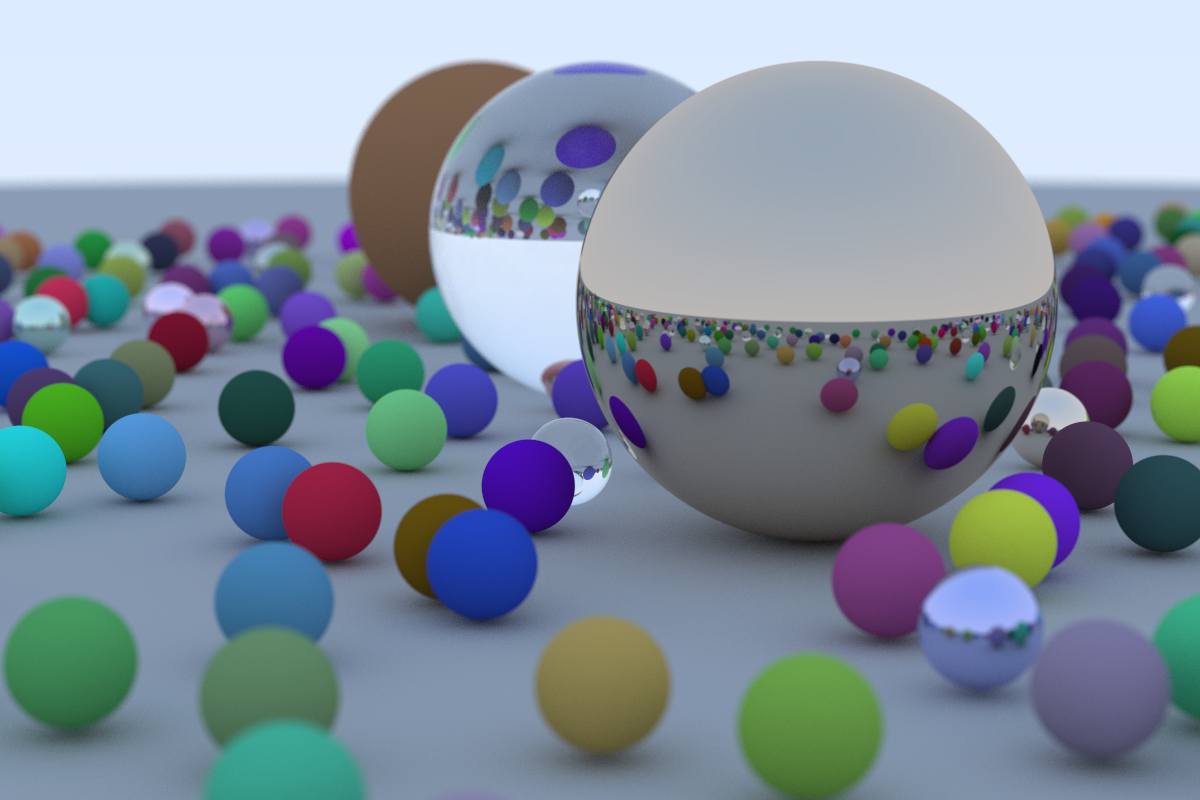
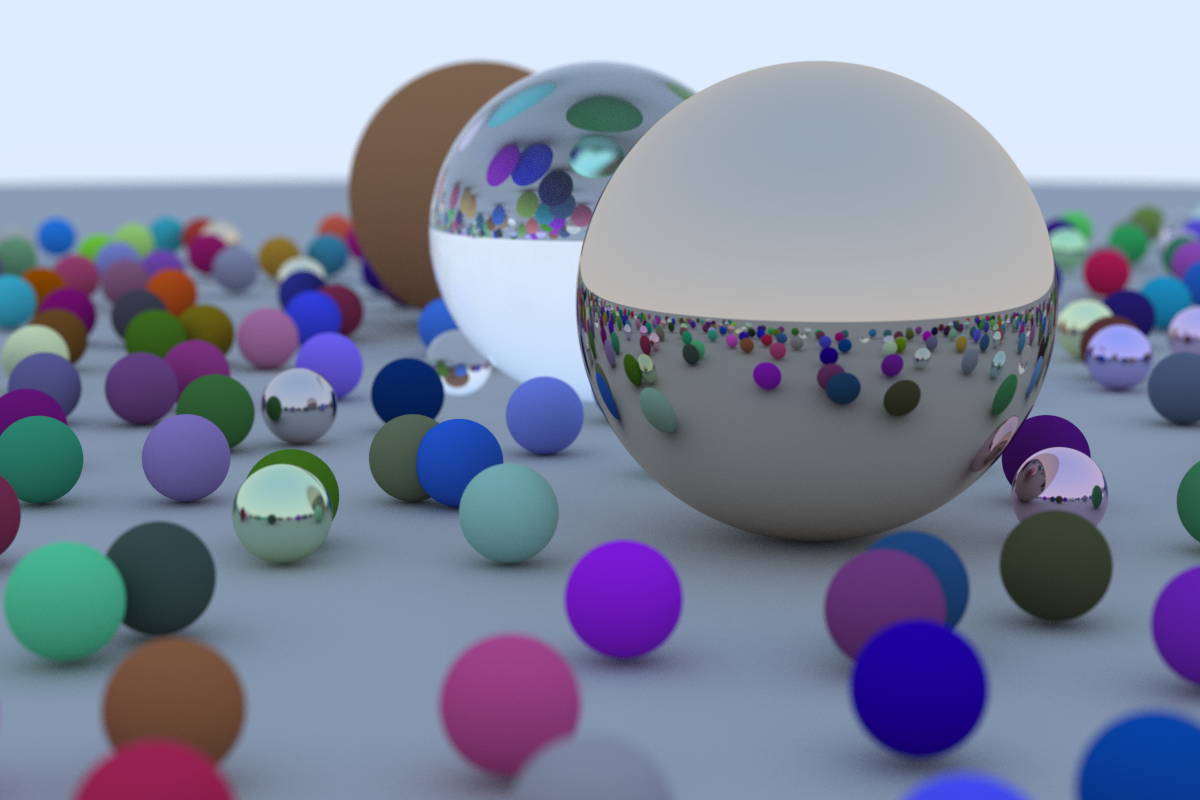
remove unsafe code, and Send, Sync bound

diff --git a/src/main.rs b/src/main.rs
@@ -1,4 +1,3 @@
-use lazy_static::lazy_static;
 use rand::prelude::*;
 use ray_tracing::{
     Camera, Color, Dielectritic, HitRecord, Hittable, HittableList, Lambertian, Material, Metal,
@@ -10,11 +9,6 @@ use std::{
     io::{BufWriter, Write},
     sync::Arc,
 };
-
-// WORLD is read-only
-lazy_static! {
-    static ref WORLD: HittableList = random_scene();
-}
 
 fn random_scene() -> HittableList {
     let mut world = HittableList::default();
@@ -119,6 +113,9 @@ fn main() {
     f.write_all(format!("P3\n{} {}\n255\n", image_width, image_height).as_bytes())
         .unwrap();
 
+    // World
+    let world = random_scene();
+
     // Render
     let image = (0..image_height)
         .into_par_iter()
@@ -133,7 +130,7 @@ fn main() {
                     let u = (i as f64 + rng.gen_range(0.0..1.0)) / (image_width - 1) as f64;
                     let v = (j as f64 + rng.gen_range(0.0..1.0)) / (image_height - 1) as f64;
                     let ray = camera.get_ray(&mut rng, u, v);
-                    pixel_color += *ray_color(&ray, &WORLD, max_depth);
+                    pixel_color += *ray_color(&ray, &world, max_depth);
                 }
                 line.push(Color::from(pixel_color));
             }

diff --git a/src/materials/list.rs b/src/materials/list.rs
@@ -5,10 +5,6 @@ use crate::{HitRecord, Hittable, Ray};
 #[derive(Default)]
 pub struct HittableList(Vec<Arc<dyn Hittable>>);
 
-// I'm sure that there is no possibility of undefined behavior (including data races)
-// when passing &HittableList between threads, so unsafely implement Sync for HittableList.
-unsafe impl Sync for HittableList {}
-
 impl HittableList {
     pub fn new(hittable: Arc<dyn Hittable>) -> Self {
         let mut list = HittableList::default();

diff --git a/src/materials/mod.rs b/src/materials/mod.rs
@@ -10,6 +10,6 @@ mod metal;
 
 use crate::{Color, HitRecord, Ray};
 
-pub trait Material {
+pub trait Material: Send + Sync {
     fn scatter(&self, r_in: &Ray, rec: &HitRecord) -> Option<(Color, Ray)>;
 }

diff --git a/src/objects/mod.rs b/src/objects/mod.rs
@@ -25,6 +25,6 @@ impl HitRecord {
     }
 }
 
-pub trait Hittable {
+pub trait Hittable: Send + Sync {
     fn hit(&self, r: &Ray, t_min: f64, t_max: f64, rec: &mut HitRecord) -> bool;
 }
